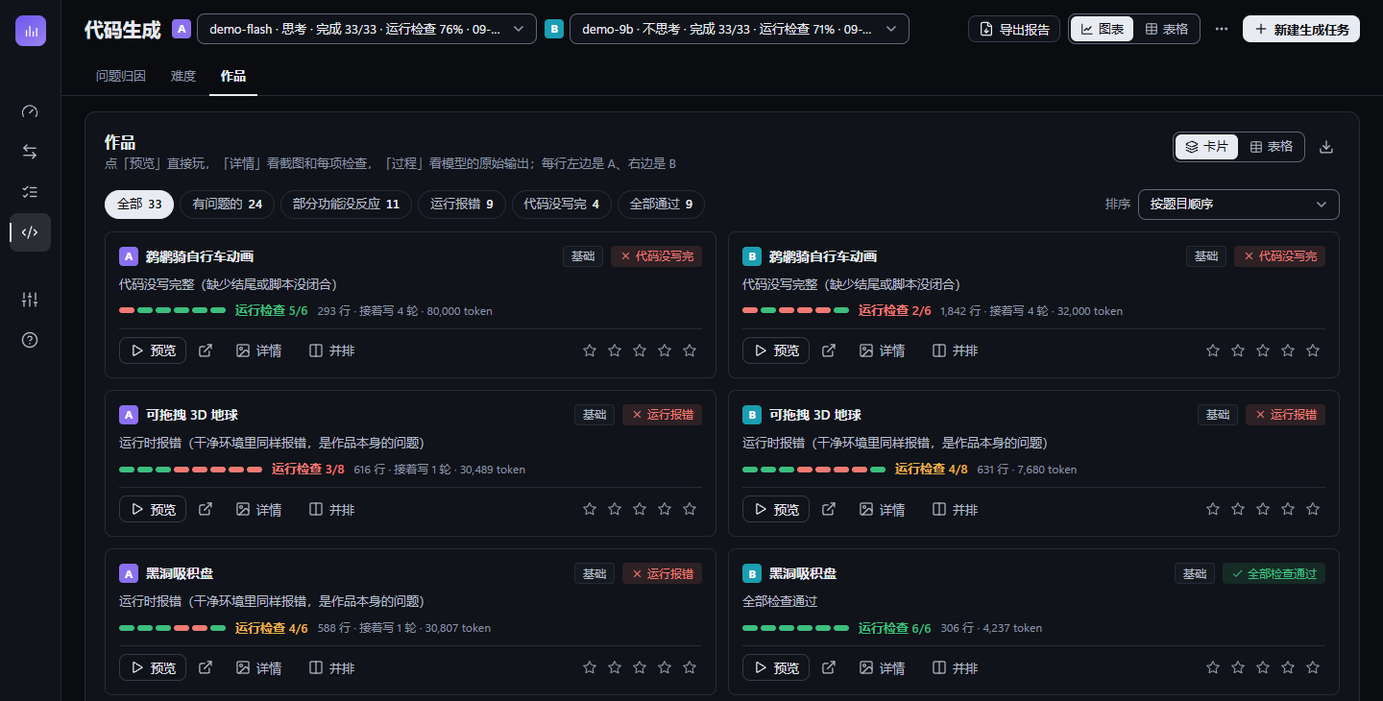
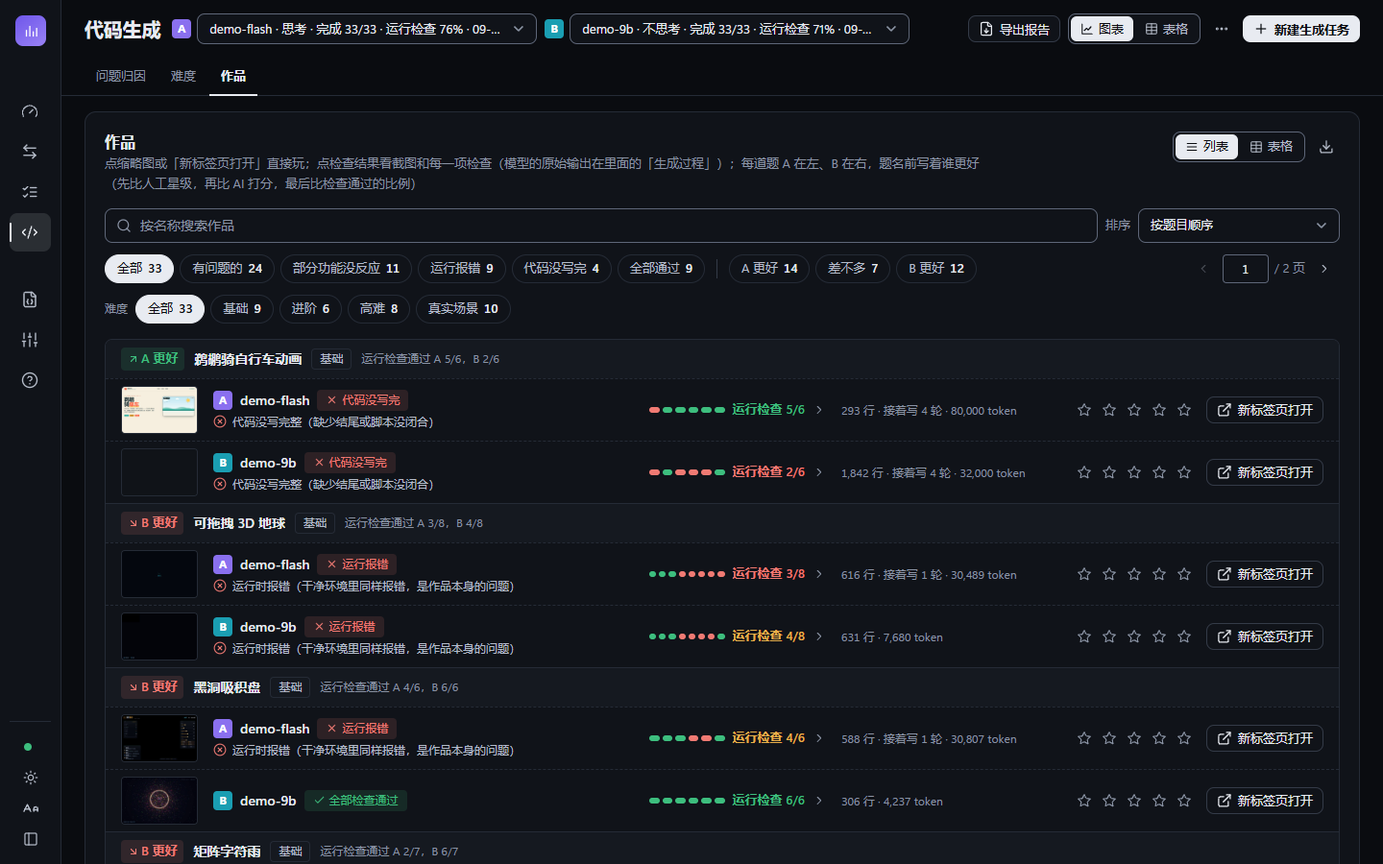
feat(gen): 作品列表改成一行一件的紧凑列表，只留「新标签页打开」，去掉页面内嵌预览
原来每件作品一张 421×428 的大卡片，一页 12 张要 2000 多像素高。现在一件作品一行（约 65 像素），20 件约 1,300 像素：

- 一行里依次是：小缩略图（点它 = 新标签页打开）、标题 + 难度 + 状态 + 这件作品自己的问题、检查结果（点开看每项检查、截图和生成过程）、
  行数 / 接着写几轮 / token、人工打星、「新标签页打开」按钮
- 按列表自己的宽度折行（容器查询）：宽屏一行；1100 像素以下两行；手机上缩略图变小、按钮只剩图标、操作独占一行
- A / B 对比：每道题一个块，行首标出谁更好，下面 A、B 各一行（去掉了「并排预览」）
- 不再在页面里内嵌显示作品：去掉「预览」按钮、并排预览和缩略图悬停预览，页面里没有 iframe 了；列表和表格里都只有「新标签页打开」
  （表格里的缩略图也改成新标签页链接，表格保留「详情」「过程」）。「生成过程」在详情弹窗的标签页里，没有检查详情的旧作品才在检查那一格放「生成过程」按钮
- 切换按钮「卡片 / 表格」改成「列表 / 表格」；每页件数 12 / 24 / 48 改成 20 / 50 / 100
- 删掉不再用的 workFrameSrc、GEN_SANDBOX 和 .frame / .split 样式；作品的沙箱策略只剩服务端返回作品时的 CSP sandbox 头（tests/test_server.py 守着不放行 allow-same-origin）
- 前端断言跟着改（作品行、A / B、骨架、分页）；README 的说明和代码生成截图（脱敏演示数据）更新；国际化检查基线 320 → 302

diff --git a/web/static/app.js b/web/static/app.js
@@ -104,20 +104,12 @@ function workUrl(path){
     {type:/\.html?$/i.test(path)?"text/html;charset=utf-8":"application/json"})));
   return OFF_BLOBS.get(path);
 }
-/* 预览 iframe 的内容来源: 离线报告用 srcdoc(配合 sandbox 属性是不同源的), 并在 doctype 后加上和服务端一样的资源限制 */
-function workFrameSrc(path){
-  if(!OFF)return `src="/${esc(path)}"`;
-  const f=(OFF.files||{})[path];
-  if(typeof f!=="string")return `srcdoc="${esc("<p style='font:14px sans-serif;padding:24px'>"+esc(t("离线报告里没有这个作品"))+"</p>")}"`;
-  const meta=`<meta http-equiv="Content-Security-Policy" content="${esc(OFF.worksCsp||"")}">`;
-  return `srcdoc="${esc(f.replace(/^(\s*<!doctype[^>]*>)?/i,m=>m+meta))}"`;
-}
 /* 新标签页打开: 像普通网页一样运行(可以加载外部字体和脚本), 仍然隔离, 碰不到本系统的数据和接口 */
 function workOpenUrl(path){return OFF?workUrl(path):"/"+path+"?open=1"}
 function workOpenLink(it,{text=false,label=false}={}){
   if(!it||!it.file||it.error)return "";
   const tip=t("新标签页打开：像普通网页一样运行（可以加载外部字体和脚本），仍然隔离，碰不到本系统的数据");
-  return `<a class="btn ${text?"btn-secondary btn-sm":"btn-ghost btn-icon btn-sm"} work-open" href="${esc(workOpenUrl(it.file))}" target="_blank" rel="noopener noreferrer" title="${esc(tip)}"${text?"":` aria-label="${esc(label?t("新标签页打开：{name}",{name:td(it.name)}):t("新标签页打开"))}"`}>${icon("external")}${text?esc(t("新标签页打开")):""}</a>`;
+  return `<a class="btn ${text?"btn-secondary btn-sm":"btn-ghost btn-icon btn-sm"} work-open" href="${esc(workOpenUrl(it.file))}" target="_blank" rel="noopener noreferrer" title="${esc(tip)}"${text?"":` aria-label="${esc(label?t("新标签页打开：{name}",{name:td(it.name)}):t("新标签页打开"))}"`}>${icon("external")}${text?`<span class="open-text">${esc(t("新标签页打开"))}</span>`:""}</a>`;
 }
 /* 图表卡里的标签页(条形 / 能力形状、折线 / 散点)记住上次选的 */
 const CTAB=Object.assign({subj:"bars",tok:"line"},lsGet("llm-bench-pro-ctab"));
@@ -3536,8 +3528,8 @@ let GEN_SORT="default";
 const genSorts=()=>[["default","按题目顺序"],["pass","检查通过项（少的在前）"],["lines","代码行数（多的在前）"],["tokens","输出 token（多的在前）"],["rounds",termText("{cont}的轮数（多的在前）")],["stars","人工星级（高的在前）"]];
 const GEN_LS="llm-bench-pro-gen-works";        /* 每页几件、上次看到第几页(同一个测试和筛选下刷新页面停在原处) */
 const GEN_PREF=lsGet(GEN_LS);
-const GW_SIZES=[12,24,48];
-let GEN_TIER="all",GEN_Q="",GEN_PAGE=0,GEN_SIZE=GW_SIZES.includes(GEN_PREF.size)?GEN_PREF.size:12;
+const GW_SIZES=[20,50,100];
+let GEN_TIER="all",GEN_Q="",GEN_PAGE=0,GEN_SIZE=GW_SIZES.includes(GEN_PREF.size)?GEN_PREF.size:20;
 const GW={a:null,b:null,rows:[],ctx:null,ctxB:null,mainId:"",pairId:"",sigTable:""};   /* 当前这一节要用的数据, 筛选 / 翻页时只重画这一节 */
 
 /* ---------- 纯逻辑 ---------- */
@@ -3696,57 +3688,43 @@ function genPhHTML(it,msg,ic,sub){
   return `<span class="work-ph" data-t="${genTierIdx(it)}">${icon(ic||GEN_CATS[cat]||GEN_CATS.page,"icon-lg")}<span>${esc(msg)}</span>${sub?`<span class="work-ph-sub">${esc(sub)}</span>`:""}</span>`;
 }
 function genThumbHTML(run,it,tag){
-  const ref=`data-run="${esc(run.run_id)}" data-item="${esc(it.id)}"`;
   if(!it.file||it.error){
-    const msg=it.error?"没有生成出来":"没有作品文件";
+    const msg=it.error?t("没有生成出来"):t("没有作品文件");
     return `<div class="work-thumb is-static" title="${esc(it.error?msg+"："+it.error:msg)}">${genPhHTML(it,msg,it.error?"x-circle":"ban")}</div>`;
   }
   const shot=genPickShot(it),src=shot?workUrl(shot.path):"";
   const inner=src?`<img class="work-shot" src="${esc(src)}" alt="" width="768" height="480" loading="lazy" decoding="async" data-shot="${esc(shot.path)}">`
-    :genPhHTML(it,shot?"报告里没有这张截图 · 点击预览":"没有截图 · 点击预览");
-  return `<button type="button" class="work-thumb${src?" skeleton":""}" data-gen="preview" ${ref} tabindex="-1" aria-label="预览：${esc(it.name)}${tag?"（"+tag+"）":""}" title="预览「${esc(it.name)}」">${inner}<span class="work-thumb-hint" aria-hidden="true"><span>${icon("play")}预览</span></span></button>`;
-}
-function genFlagHTML(info){
-  if(!info.badge)return "";
-  const ic={good:"check",bad:"x",warn:"alert",neutral:"ban"}[info.badge.tone]||"minus",tone=info.badge.tone==="neutral"?"plain":info.badge.tone;
-  return `<span class="work-flag"><span class="badge is-${tone}">${icon(ic)}${esc(info.badge.text)}</span></span>`;
+    :genPhHTML(it,shot?t("报告里没有这张截图"):t("没有截图"));
+  return `<a class="work-thumb${src?" skeleton":""}" href="${esc(workOpenUrl(it.file))}" target="_blank" rel="noopener noreferrer" tabindex="-1" aria-label="${esc(t("新标签页打开：{name}",{name:it.name}))}${tag?"（"+tag+"）":""}" title="${esc(t("新标签页打开：{name}",{name:it.name}))}">${inner}</a>`;
 }
 function genActionsHTML(run,it){
-  const can=!!it.file&&!it.error,e=it.eval,hasTrace=!!it.trace||!!it.rounds;
-  const ref=`data-run="${esc(run.run_id)}" data-item="${esc(it.id)}"`,nm=esc(it.name);
-  const prev=can?`<button type="button" class="btn btn-secondary btn-sm act-preview" data-gen="preview" ${ref} aria-label="预览：${nm}" title="预览：在隔离的沙箱里运行这件作品">${icon("play")}<span>预览</span></button>`:"";
-  const open=workOpenLink(it,{label:true});
-  const detail=e?`<button type="button" class="btn btn-ghost btn-sm" data-gen="detail" ${ref} aria-label="详情：${nm}" title="看截图和每一项检查">${icon("image")}<span>详情</span></button>`:"";
-  const trace=hasTrace?`<button type="button" class="btn btn-ghost btn-sm" data-gen="trace" ${ref} aria-label="生成过程：${nm}" title="看模型每一轮的原始输出">${icon("layers")}<span>过程</span></button>`:"";
-  const menu=(open?`<a class="menu-item" role="menuitem" href="${esc(workOpenUrl(it.file))}" target="_blank" rel="noopener noreferrer">${icon("external")}新标签页打开</a>`:"")+
-    (detail?`<button type="button" class="menu-item" role="menuitem" data-gen="detail" ${ref}>${icon("image")}详情（截图和每项检查）</button>`:"")+
-    (trace?`<button type="button" class="menu-item" role="menuitem" data-gen="trace" ${ref}>${icon("layers")}生成过程</button>`:"");
-  const more=menu?`<details class="dropdown act-more"><summary class="btn btn-ghost btn-icon btn-sm" aria-label="更多操作：${nm}" title="更多操作">${icon("more")}</summary><div class="dropdown-panel menu" role="menu">${menu}</div></details>`:"";
-  if(!prev&&!menu&&it.error)return `<div class="work-acts"></div>`;   /* 什么操作都没有(没生成出来又没有过程记录): 留空位, 不画分隔线 */
-  return `<div class="work-acts"><div class="work-acts-in">${prev}<span class="act-inline">${open}${detail}${trace}</span>${more}${it.error?"":starsHTML(run,it)}</div></div>`;
+  const can=!!it.file&&!it.error;
+  const open=can?workOpenLink(it,{text:true}):"";
+  if(!open&&it.error)return `<div class="work-acts"></div>`;   /* 没生成出来: 没有按钮也没有星星, 留空位 */
+  return `<div class="work-acts">${it.error?"":starsHTML(run,it)}${open}</div>`;
 }
-/* 作品卡: 六行固定位置 —— 缩略图 / 标题行 / 这件作品自己的问题(没有就是空的) / 检查结果 / 数据 / 操作(含打星); 一排卡片用 subgrid 逐行对齐 */
+/* 作品行: 一件作品一行 —— 缩略图 / 名称 + 状态 + 这件作品自己的问题 / 检查结果 / 数据 / 星级 + 新标签页打开; 检查结果可以点开看截图和每一项检查(生成过程也在里面) */
 function genCard(run,it,v,ctx,{tag="",inPair=false}={}){
-  const info=genCardInfo(it,v,ctx),e=it.eval,j=e&&e.judge,sc=genScore(it),segs=genCheckSegs(it);
+  const info=genCardInfo(it,v,ctx),e=it.eval,j=e&&e.judge,sc=genScore(it),segs=genCheckSegs(it),hasTrace=!!it.trace||!!it.rounds;
   const ref=`data-run="${esc(run.run_id)}" data-item="${esc(it.id)}"`;
   const judge=j&&j.score!=null?`<span class="badge" title="${termText("{judge}")}${j.stale?"（基于旧截图）":""}">${icon("sparkle")}<b class="score ${scoreCls(j.score)}">${fmt(j.score,0)}</b></span>`:(j&&j.error?`<span class="badge is-bad">打分失败</span>`:"");
+  const flag=info.badge?`<span class="badge is-${info.badge.tone==="neutral"?"plain":info.badge.tone}">${icon({good:"check",bad:"x",warn:"alert",neutral:"ban"}[info.badge.tone]||"minus")}${esc(info.badge.text)}</span>`:"";
   const head=inPair
-    ?`<header class="work-head"><span class="run-tag" style="background:${tag==="A"?C.a:C.b}">${tag}</span><span class="work-name" title="${esc(genLabel(run))}">${esc([run.model||"?",runFw(run)].filter(Boolean).join(" · "))}</span>${judge}</header>`
-    :`<header class="work-head"><h3 class="work-name" title="${esc(it.name)}">${esc(it.name)}</h3><span class="badge">${esc(tierOf(it)||"—")}</span>${judge}</header>`;
+    ?`<header class="work-head"><span class="run-tag" style="background:${tag==="A"?C.a:C.b}">${tag}</span><span class="work-name" title="${esc(genLabel(run))}">${esc([run.model||"?",runFw(run)].filter(Boolean).join(" · "))}</span>${flag}${judge}</header>`
+    :`<header class="work-head"><h3 class="work-name" title="${esc(it.name)}">${esc(it.name)}</h3><span class="badge">${esc(tierOf(it)||"—")}</span>${flag}${judge}</header>`;
   const note=info.note?`<p class="work-note is-${info.tone==="bad"?"bad":"warn"}" title="${esc(info.note)}">${icon(info.tone==="bad"?"x-circle":"alert","icon-sm")}<span>${esc(info.note)}</span></p>`:`<p class="work-note"></p>`;
   const bar=segs.length?`<span class="checkbar">${segs.map(s=>`<i class="${s.pass?"":"fail"}" title="${esc(s.tip)}"></i>`).join("")}</span>`:"",score=sc?`<span class="work-score score ${sc.cls}">${esc(sc.text)}</span>`:"";
-  const checks=!bar&&!score?`<div class="work-checks"></div>`
-    :e?`<button type="button" class="work-checks" data-gen="detail" ${ref} tabindex="-1" title="点一下看每一项检查和截图" aria-label="${esc(sc?sc.text:"检查结果")}，点开看每一项检查">${bar}${score}</button>`
+  const checks=!bar&&!score?(hasTrace&&!it.error?`<div class="work-checks"><button type="button" class="btn btn-ghost btn-sm" data-gen="trace" ${ref} title="看模型每一轮的原始输出">${icon("layers")}<span>生成过程</span></button></div>`:`<div class="work-checks"></div>`)
+    :e?`<button type="button" class="work-checks" data-gen="detail" ${ref} tabindex="-1" title="点一下看每一项检查、截图和生成过程" aria-label="${esc(sc?sc.text:"检查结果")}，点开看每一项检查">${bar}${score}${icon("chevron-right","icon-sm")}</button>`
     :`<div class="work-checks">${bar}${score}</div>`;
-  return `<article class="work" data-item="${esc(it.id)}"><div class="work-media">${genThumbHTML(run,it,tag)}${genFlagHTML(info)}</div>${head}${note}${checks}<p class="work-data">${esc(genDataLine(it))}</p>${genActionsHTML(run,it)}</article>`;
+  return `<article class="work" data-item="${esc(it.id)}"><div class="work-media">${genThumbHTML(run,it,tag)}</div><div class="work-main">${head}${note}</div>${checks}<p class="work-data">${esc(genDataLine(it))}</p>${genActionsHTML(run,it)}</article>`;
 }
-/* 一道题的 A / B 并排: 行首标出谁更好, 两半按行对齐(缩略图并排); 判断规则在悬停提示里 */
+/* 一道题的 A / B 并排: 行首标出谁更好, 下面 A、B 各一行; 判断规则在悬停提示里 */
 function genPairHead(a,b,it,ib,win){
   const cls=!ib?"flat":{a:"up",b:"down"}[win.side]||"flat",ic={up:"arrow-up",down:"arrow-down"}[cls]||"minus";
   const label=!ib?"B 没有这道题":genWinLabel(win);
   const tip=genWinRule()+(win?"\n\n这道题："+genWinLabel(win)+"（"+win.text+"）":"");
-  const side=ib&&!ib.error&&!it.error&&it.file&&ib.file?`<button type="button" class="btn btn-ghost btn-sm pair-side" data-gen="compare" data-run="${esc(a.run_id)}" data-item="${esc(it.id)}" aria-label="并排预览：${esc(it.name)}" title="A 和 B 两件作品并排运行">${icon("columns")}<span>并排预览</span></button>`:"";
-  return `<div class="pair-head"><span class="delta ${cls} pair-win" title="${esc(tip)}">${icon(ic)}${esc(label)}</span><h3 class="pair-name" title="${esc(it.name)}">${esc(it.name)}</h3><span class="badge">${esc(tierOf(it)||"—")}</span><span class="pair-why">${esc(win?win.text:"")}</span>${side}</div>`;
+  return `<div class="pair-head"><span class="delta ${cls} pair-win" title="${esc(tip)}">${icon(ic)}${esc(label)}</span><h3 class="pair-name" title="${esc(it.name)}">${esc(it.name)}</h3><span class="badge">${esc(tierOf(it)||"—")}</span><span class="pair-why">${esc(win?win.text:"")}</span></div>`;
 }
 function genPairHTML(a,b,row,ctx,ctxB){
   const{it,v,ib,vb,win}=row;
@@ -3755,10 +3733,10 @@ function genPairHTML(a,b,row,ctx,ctxB){
 /* 加载中: 与最终布局同形的骨架(概览 + 一屏卡片) */
 function genSkeleton(){
   const line=(w,h=12,mt=0)=>`<div class="skeleton" style="height:${h}px;width:${w}%;margin-top:${mt}px"></div>`;
-  const card=`<div class="work is-sk" aria-hidden="true"><div class="work-media"><div class="work-thumb skeleton"></div></div><div class="work-head">${line(55,14)}</div><p class="work-note"></p><div class="work-checks">${line(70,10)}</div><div class="work-data">${line(45,10)}</div><div class="work-acts">${line(100,28)}</div></div>`;
+  const card=`<div class="work is-sk" aria-hidden="true"><div class="work-media"><div class="work-thumb skeleton"></div></div><div class="work-main"><div class="work-head">${line(45,14)}</div><p class="work-note"></p></div><div class="work-checks">${line(70,10)}</div><div class="work-data">${line(60,10)}</div><div class="work-acts">${line(100,28)}</div></div>`;
   return `<div class="ov"><div>${line(18)}${line(88,12,14)}${line(76,12,14)}${line(82,12,14)}</div>
     <div class="ov-stats">${'<div class="stat"><div class="skeleton" style="height:10px;width:50%"></div><div class="skeleton" style="height:26px;width:66%;margin-top:12px"></div></div>'.repeat(4)}</div></div>
-    <div class="sec" aria-busy="true"><div class="skeleton" style="height:14px;width:12%"></div><div class="skeleton" style="height:36px;width:100%;margin-top:16px"></div><div class="work-grid" style="margin-top:16px">${card.repeat(6)}</div></div>`;
+    <div class="sec" aria-busy="true"><div class="skeleton" style="height:14px;width:12%"></div><div class="skeleton" style="height:36px;width:100%;margin-top:16px"></div><div class="work-grid" style="margin-top:16px">${card.repeat(8)}</div></div>`;
 }
 
 /* ---------- 这一节的渲染: 筛选标签 · 卡片(分页) · 翻页器 · 表格 ---------- */
@@ -3917,8 +3895,8 @@ function renderGen(){
     panel({id:"gen-tier",title:"各难度的表现",jump:"难度",desc:`${s.mode==="static"?"只看代码的命中率（没有实际运行，仅供参考）":"实际运行检查的通过率"}，每张卡里按分数从高到低排列${b?"；右侧数字是 A / B":""}`,
       chart:dataTable(tierT)+tierCards(a,b,s.mode),tables:[tierT,genTaskTable(a,b)],tcols:1})+
     `<section class="sec" id="gen-works" data-jump="作品" data-pv="${worksMode}">
-      <div class="sec-head"><div class="sec-head-text"><h2 class="sec-title">作品</h2><p class="sec-desc">点缩略图或「预览」直接玩，点检查结果或「详情」看截图和每一项检查，「过程」看模型的原始输出${b?"；每道题 A 在左、B 在右，题名前写着谁更好（先比人工星级，再比 AI 打分，最后比检查通过的比例）":""}${onlyB?`。B 里还有 ${onlyB} 道 A 没做的题，这里不显示`:""}</p></div>
-        <div class="sec-tools">${segHTML("data-pv-set",worksMode,[["chart","卡片","layers"],["table","表格","table"]])}
+      <div class="sec-head"><div class="sec-head-text"><h2 class="sec-title">作品</h2><p class="sec-desc">点缩略图或「新标签页打开」直接玩；点检查结果看截图和每一项检查（模型的原始输出在里面的「生成过程」）${b?"；每道题 A 在左、B 在右，题名前写着谁更好（先比人工星级，再比 AI 打分，最后比检查通过的比例）":""}${onlyB?`。B 里还有 ${onlyB} 道 A 没做的题，这里不显示`:""}</p></div>
+        <div class="sec-tools">${segHTML("data-pv-set",worksMode,[["chart","列表","rows"],["table","表格","table"]])}
           <button type="button" class="btn btn-ghost btn-icon btn-sm" data-pv-export title="导出作品表与检查矩阵（CSV）" aria-label="导出作品表">${icon("download")}</button></div></div>
       <div class="work-tools">
         <div class="qb-bar"><label class="qb-search">${icon("search")}<input class="input" id="genSearch" type="search" placeholder="按名称搜索作品" value="${esc(GEN_Q)}" aria-label="按名称搜索作品" autocomplete="off"></label>
@@ -3952,11 +3930,11 @@ function starsHTML(run,it){
 function genMiniHTML(run,it){
   const shot=genPickShot(it),src=shot&&it.file&&!it.error?workUrl(shot.path):"";
   if(!src)return `<span class="work-mini is-ph" aria-hidden="true">${icon("image","icon-sm")}</span>`;
-  return `<button type="button" class="work-mini" data-gen="preview" data-run="${esc(run.run_id)}" data-item="${esc(it.id)}" aria-label="预览：${esc(it.name)}"><img src="${esc(src)}" alt="" width="64" height="40" loading="lazy" decoding="async" data-shot="${esc(shot.path)}"></button>`;
+  return `<a class="work-mini" href="${esc(workOpenUrl(it.file))}" target="_blank" rel="noopener noreferrer" aria-label="${esc(t("新标签页打开：{name}",{name:it.name}))}" title="${esc(t("新标签页打开：{name}",{name:it.name}))}"><img src="${esc(src)}" alt="" width="64" height="40" loading="lazy" decoding="async" data-shot="${esc(shot.path)}"></a>`;
 }
 function genTableActions(run,it){
   const can=!!it.file&&!it.error,hasTrace=!!it.trace||!!it.rounds,ref=`data-run="${esc(run.run_id)}" data-item="${esc(it.id)}"`,nm=esc(it.name);
-  return `<span class="dt-actions">${can?`<button type="button" class="btn btn-secondary btn-sm" data-gen="preview" ${ref} aria-label="预览：${nm}">${icon("play")}预览</button>`:""}${workOpenLink(it,{label:true})}`+
+  return `<span class="dt-actions">${workOpenLink(it,{label:true})}`+
     `${it.eval?`<button type="button" class="btn btn-ghost btn-sm" data-gen="detail" ${ref} aria-label="详情：${nm}">${icon("image")}详情</button>`:""}`+
     `${hasTrace?`<button type="button" class="btn btn-ghost btn-sm" data-gen="trace" ${ref} aria-label="生成过程：${nm}">${icon("layers")}过程</button>`:""}</span>`;
 }
@@ -4106,10 +4084,8 @@ $("genResult").addEventListener("click",e=>{
   if(rate){rateStars(rate.dataset.run,rate.dataset.item,+rate.dataset.rate);return}
   const act=e.target.closest("[data-gen]");if(!act)return;
   const r=GEN_RUNS[act.dataset.run],it=r&&(r.items||[]).find(x=>x.id===act.dataset.item);if(!it)return;
-  if(act.dataset.gen==="preview")previewWork(it);
-  else if(act.dataset.gen==="detail")genDetail(r,it,"checks");
+  if(act.dataset.gen==="detail")genDetail(r,it,"checks");
   else if(act.dataset.gen==="trace")genDetail(r,it,"trace");
-  else if(act.dataset.gen==="compare")previewCompare(it);
 });
 let rateSeq=0;
 function rateStars(runId,itemId,n){
@@ -4125,25 +4101,6 @@ function rateStars(runId,itemId,n){
     if(!d.ok){it.stars=prev;renderGen();toast("评分保存失败："+d.error,"error")}
   });
   if(GW.b&&$("gwList"))genRenderWorks({focus:`[data-rate="${n}"][data-run="${CSS.escape(runId)}"][data-item="${CSS.escape(itemId)}"]`});
-}
-const GEN_SANDBOX="allow-scripts allow-pointer-lock allow-forms allow-modals"; /* 无 same-origin/top-navigation/popups: 作品代码碰不到本页和接口; localStorage 由服务端 /works 垫片提供(否则游戏脚本一启动就崩) */
-const SANDBOX_BADGE=`<span class="badge" title="作品在隔离的沙箱里运行，碰不到本页面和后端接口；本地存储用内存代替（刷新就清空）">${icon("ban")}隔离运行</span>`;
-function focusPreviewFrame(){
-  const f=document.querySelector("#modalBody iframe.frame");
-  if(f){try{f.focus();f.contentWindow&&f.contentWindow.focus()}catch(e){}}
-}
-function previewWork(it){
-  Modal.open(it.name,`<iframe class="frame" sandbox="${GEN_SANDBOX}" ${workFrameSrc(it.file)} title="${esc(it.name)}"></iframe>`,{badges:SANDBOX_BADGE+workOpenLink(it,{text:true}),flush:true});
-  focusPreviewFrame();  /* 键盘类游戏不用先点一下 */
-}
-function previewCompare(it){
-  const a=GEN_RUNS[$("genMainSel").value],b=GEN_RUNS[$("genCmpSel").value];
-  const ib=b&&(b.items||[]).find(x=>x.id===it.id);
-  const side=(r,x,tag)=>`<div><div class="split-head"><span class="run-tag ${tag.toLowerCase()}">${tag}</span>${esc(genLabel(r))}${workOpenLink(x)}</div>
-    ${x&&!x.error?`<iframe class="frame" style="flex:1" sandbox="${GEN_SANDBOX}" ${workFrameSrc(x.file)} title="${tag}"></iframe>`
-      :emptyState(x?"这题没生成出来":"这个任务没有这道题",x?x.error:"",{inline:true})}</div>`;
-  Modal.open(it.name+" · 并排对比",`<div class="split">${side(a,it,"A")}${side(b,ib,"B")}</div>`,{badges:SANDBOX_BADGE,flush:true});
-  focusPreviewFrame();
 }
 /* 检查详情 / AI 打分 / 生成过程 三个标签 */
 function genDetail(r,it,tab){

diff --git a/web/static/app.css b/web/static/app.css
@@ -481,10 +481,6 @@ details.advanced.is-step{margin-top:0;border-top:0;padding-top:0}
 .modal-backdrop.is-panel .modal{width:min(480px,100%);height:auto;max-height:min(680px,88vh)}
 .modal-backdrop.is-panel .modal-body{padding:14px 16px 16px}
 .modal-backdrop.is-wide .modal{width:min(1100px,100%);height:auto;max-height:90vh;margin:auto}
-.frame{display:block;width:100%;height:100%;border:0;background:#fff}
-.split{display:grid;grid-template-columns:1fr 1fr;gap:1px;height:100%;background:var(--border)}
-.split>div{display:flex;flex-direction:column;min-width:0;background:var(--surface-1)}
-.split-head{display:flex;align-items:center;gap:var(--sp-2);height:40px;padding:0 var(--sp-3);font-size:var(--fs-13);color:var(--text-2);border-bottom:1px solid var(--border);white-space:nowrap;overflow:hidden}
 .dialog-text{color:var(--text-2);line-height:1.75;white-space:pre-wrap;word-break:break-word}
 .dialog-actions{display:flex;justify-content:flex-end;gap:var(--sp-2);margin-top:var(--sp-5)}
 
@@ -683,8 +679,8 @@ details.advanced.is-step{margin-top:0;border-top:0;padding-top:0}
 .sig.yes{color:var(--text-1)}
 .sig.no{color:var(--text-3)}
 
-/* 代码生成: 作品卡。一张卡固定六行: 缩略图 / 标题行 / 这件作品自己的问题 / 检查结果 / 数据 / 操作;
-   一排卡片用 subgrid 把六行逐行对齐(整排都没有「自己的问题」时那一行高度为 0); 不支持 subgrid 的浏览器退回普通竖排 */
+/* 代码生成: 作品列表。一件作品一行: 缩略图 · 名称 + 状态 + 这件作品自己的问题 · 检查结果 · 数据 · 星级 + 新标签页打开。
+   按列表自己的宽度(容器查询)折行: 宽 = 一行; 中 = 两行(检查和数据放到名称下面); 窄 = 缩略图变小, 按钮只剩图标 */
 .sr-only{position:absolute;width:1px;height:1px;margin:-1px;padding:0;overflow:hidden;clip:rect(0,0,0,0);white-space:nowrap;border:0}
 .work-tools{display:flex;flex-direction:column;gap:var(--sp-3);margin-bottom:var(--sp-4)}
 .work-sort{display:flex;align-items:center;gap:8px;margin-left:auto;font-size:var(--fs-13);color:var(--text-3);white-space:nowrap}
@@ -693,91 +689,75 @@ details.advanced.is-step{margin-top:0;border-top:0;padding-top:0}
 .work-tier-row{display:flex;align-items:center;gap:var(--sp-2);min-width:0}
 .work-tier-label{flex:none;font-size:var(--fs-12);color:var(--text-3)}
 .work-tier-row .filter-chips{flex:1 1 auto;min-width:0}
-.work-grid{display:grid;grid-template-columns:repeat(auto-fill,minmax(min(100%,max(340px,calc((100% - 2 * var(--sp-3)) / 3))),1fr));column-gap:var(--sp-3);row-gap:0}
-.work-pairs{display:grid;grid-template-columns:repeat(auto-fill,minmax(min(100%,560px),1fr));column-gap:var(--sp-3);row-gap:0}
-.work-grid>:not(.work),.work-pairs>:not(.work-pair){grid-column:1/-1}
-.work{grid-row:span 6;display:grid;grid-template-rows:subgrid;min-width:0;padding:12px;margin-bottom:var(--sp-3);background:var(--surface-1);border:1px solid var(--border);border-radius:var(--r-md);
-  transition:border-color var(--dur-base) var(--ease),transform var(--dur-base) var(--ease)}
-.work:hover{border-color:var(--text-4)}
-@media (prefers-reduced-motion:no-preference){.work-grid>.work:hover{transform:translateY(-2px)}}
-.work:has(.dropdown[open]),.work-pair:has(.dropdown[open]){position:relative;z-index:10}
-.work.is-empty{padding:0;border:0;background:none}
-.work.is-empty>.empty{grid-row:1/-1;min-height:0;border-style:dashed}
-/* 缩略图: 固定 16:10(截图 768×480 正好), 懒加载; 加载中是骨架, 没有截图或打不开是占位, 悬停 / 键盘聚焦出现「预览」 */
-.work-media{position:relative;min-width:0}
+.work-grid,.work-pairs{container:gw/inline-size;display:block;overflow:hidden;background:var(--surface-1);border:1px solid var(--border);border-radius:var(--r-md)}
+.work-grid>:not(.work),.work-pairs>:not(.work-pair){margin:var(--sp-4)}
+.work{display:grid;grid-template-columns:80px minmax(0,1fr) 184px 224px auto;grid-template-areas:"media main checks data acts";align-items:center;column-gap:var(--sp-4);
+  min-width:0;padding:7px var(--sp-4);border-top:1px solid var(--border);background:var(--surface-1);transition:background var(--dur-fast) var(--ease)}
+.work-grid>.work:first-child,.work-grid>.ov+.work{border-top:0}
+.work:hover{background:var(--surface-2)}
+.work.is-empty{display:block;padding:0;border:0;background:none}
+.work.is-empty>.empty{min-height:0;border-style:dashed;margin:var(--sp-3) var(--sp-4)}
+.work-media{grid-area:media;position:relative;min-width:0}
+.work-main{grid-area:main;min-width:0}
+.work-checks{grid-area:checks}
+.work-data{grid-area:data}
+.work-acts{grid-area:acts}
+/* 缩略图: 16:10(截图 768×480 正好), 懒加载; 加载中是骨架, 没有截图或打不开是占位; 点它 = 新标签页打开 */
 .work-thumb{position:relative;display:block;width:100%;aspect-ratio:16/10;padding:0;border:1px solid var(--border);border-radius:var(--r-sm);overflow:hidden;background:var(--surface-2);
-  color:inherit;font:inherit;text-align:center;cursor:pointer}
+  color:inherit;font:inherit;text-align:center;text-decoration:none;cursor:pointer}
+a.work-thumb:hover{border-color:var(--text-3)}
 .work-thumb.is-static{cursor:default}
-.work-thumb.skeleton{border-radius:var(--r-sm)}
 .work-shot{position:absolute;inset:0;display:block;width:100%;height:100%;object-fit:cover;object-position:top center}
-.work-ph{--ph:var(--series-5);position:absolute;inset:0;display:flex;flex-direction:column;align-items:center;justify-content:center;gap:6px;padding:10px;
-  font-size:var(--fs-12);line-height:1.45;color:var(--text-2);background:color-mix(in srgb,var(--ph) 11%,var(--surface-2))}
+.work-ph{--ph:var(--series-5);position:absolute;inset:0;display:flex;align-items:center;justify-content:center;
+  background:color-mix(in srgb,var(--ph) 11%,var(--surface-2))}
 .work-ph[data-t="1"]{--ph:var(--series-6)}
 .work-ph[data-t="2"]{--ph:var(--series-4)}
 .work-ph[data-t="3"]{--ph:var(--series-3)}
-.work-ph .icon{width:26px;height:26px;color:color-mix(in srgb,var(--ph) 55%,var(--text-2))}
-.work-ph-sub{max-width:100%;color:var(--text-3);overflow-wrap:anywhere}
-.work-thumb-hint{position:absolute;inset:0;display:grid;place-items:center;background:rgba(8,10,14,.46);opacity:0;transition:opacity var(--dur-fast) var(--ease)}
-.work-thumb-hint>span{display:inline-flex;align-items:center;gap:6px;height:32px;padding:0 14px;border-radius:999px;background:rgba(8,10,14,.86);color:#fff;font-size:var(--fs-13);font-weight:600}
-.work-thumb:hover .work-thumb-hint,.work-thumb:focus-visible .work-thumb-hint{opacity:1}
-.work-thumb.is-static .work-thumb-hint{display:none}
-@media (hover:none){
-  .work-thumb-hint{opacity:1;background:none;place-items:end end;padding:8px}
-  .work-thumb-hint>span{height:28px;padding:0 10px;font-size:var(--fs-12)}
-}
-/* 状态标签叠在缩略图左上角(实底, 不管截图什么颜色都读得清) */
-.work-flag{position:absolute;left:8px;top:8px;max-width:calc(100% - 16px);pointer-events:none}
-.work-flag .badge{height:24px;border:1px solid var(--border-strong);background:var(--surface-1);color:var(--text-2);box-shadow:0 1px 3px rgba(0,0,0,.3)}
-.work-flag .badge.is-good{background:color-mix(in srgb,var(--good) 9%,var(--surface-1));color:var(--good);border-color:color-mix(in srgb,var(--good) 45%,transparent)}
-.work-flag .badge.is-warn{background:color-mix(in srgb,var(--warn) 9%,var(--surface-1));color:var(--warn);border-color:color-mix(in srgb,var(--warn) 45%,transparent)}
-.work-flag .badge.is-bad{background:color-mix(in srgb,var(--bad) 9%,var(--surface-1));color:var(--bad);border-color:color-mix(in srgb,var(--bad) 45%,transparent)}
-.work-head{display:flex;align-items:center;gap:8px;min-width:0;margin-top:10px}
-.work-name{flex:1 1 auto;min-width:0;font-size:var(--fs-14);font-weight:600;line-height:1.4;white-space:nowrap;overflow:hidden;text-overflow:ellipsis}
+.work-ph .icon{width:20px;height:20px;color:color-mix(in srgb,var(--ph) 55%,var(--text-2))}
+.work-ph>span,.work-ph-sub{display:none}
+.work-head{display:flex;align-items:center;gap:8px;min-width:0}
+.work-name{flex:0 1 auto;min-width:0;margin:0;font-size:var(--fs-14);font-weight:600;line-height:1.4;white-space:nowrap;overflow:hidden;text-overflow:ellipsis}
 .work-head .badge,.work-head .run-tag{flex:none}
-.work-note{display:flex;align-items:flex-start;gap:6px;min-width:0;margin:0;font-size:var(--fs-13);line-height:1.5;color:var(--text-2)}
-.work-note:not(:empty){margin-top:6px}
-.work-note .icon{flex:none;margin-top:3px}
+.work-note{display:flex;align-items:center;gap:6px;min-width:0;margin:2px 0 0;font-size:var(--fs-12);line-height:1.5;color:var(--text-2)}
+.work-note:empty{display:none}
+.work-note .icon{flex:none}
 .work-note.is-bad .icon{color:var(--bad)}
 .work-note.is-warn .icon{color:var(--warn)}
-.work-note>span{min-width:0;display:-webkit-box;-webkit-line-clamp:2;-webkit-box-orient:vertical;overflow:hidden;overflow-wrap:anywhere}
-.work-checks{display:flex;align-items:center;gap:10px;min-width:0;margin:8px 0 0;padding:0;border:0;background:none;font:inherit;text-align:left;color:inherit}
-.work-checks:empty{margin:0}
+.work-note>span{min-width:0;white-space:nowrap;overflow:hidden;text-overflow:ellipsis}
+.work-checks{display:flex;align-items:center;gap:8px;min-width:0;margin:0;padding:0;border:0;background:none;font:inherit;text-align:left;color:inherit}
+.work-checks:empty{display:none}
 button.work-checks{cursor:pointer;border-radius:var(--r-sm)}
 button.work-checks:hover .work-score{text-decoration:underline;text-underline-offset:3px}
-.work-score{flex:none;font-size:var(--fs-12)}
+button.work-checks>.icon{flex:none;color:var(--text-3)}
+.work-score{flex:none;font-size:var(--fs-12);white-space:nowrap}
 .checkbar{display:flex;align-items:center;gap:3px;flex:1 1 auto;min-width:0}
-.checkbar i{flex:1 1 0;min-width:5px;max-width:22px;height:6px;border-radius:3px;background:var(--good)}
+.checkbar i{flex:1 1 0;min-width:5px;max-width:18px;height:6px;border-radius:3px;background:var(--good)}
 .checkbar i.fail{background:var(--bad)}
-.work-data{min-width:0;margin:4px 0 0;font-size:var(--fs-12);line-height:1.5;color:var(--text-3);font-variant-numeric:tabular-nums;white-space:nowrap;overflow:hidden;text-overflow:ellipsis}
-.work-data:empty{margin:0}
-/* 操作行: 宽卡片 = 预览 · 新标签页 · 详情 · 过程 + 星星; 窄一点 = 预览 + 「更多」+ 星星; 再窄 = 预览只剩图标(按行本身的宽度判断, 不看屏幕) */
-.work-acts{min-width:0;margin-top:10px;padding-top:8px;border-top:1px solid var(--border);container-type:inline-size}
-.work-acts:empty{margin:0;padding:0;border:0}
-.work-acts-in{display:flex;align-items:center;gap:4px;min-width:0}
-.work-acts-in .stars{margin-left:auto;flex:0 1 auto;min-width:0}
-.act-inline{display:contents}
-.act-more{display:none;flex:none}
-.act-more .dropdown-panel{min-width:210px}
-a.menu-item{text-decoration:none}
-@container (max-width:379px){.act-inline{display:none}.act-more{display:block}}
-@container (max-width:239px){.act-preview{width:var(--h-sm);padding:0}.act-preview span{display:none}}
-/* A / B 对比: 一道题一个块, 行首写谁更好, 两半的缩略图并排、各行对齐; 相邻的块也逐行对齐 */
-.work-pair{grid-row:span 7;display:grid;grid-template-rows:subgrid;grid-template-columns:repeat(2,minmax(0,1fr));min-width:0;padding:12px;margin-bottom:var(--sp-3);
-  background:var(--surface-1);border:1px solid var(--border);border-radius:var(--r-md);transition:border-color var(--dur-base) var(--ease)}
-.work-pair:hover{border-color:var(--text-4)}
-.work-pair>.work{grid-row:span 6;margin:0;padding:0 12px;background:none;border:0;border-radius:0;transition:none;transform:none}
-.work-pair>.pair-head+.work{padding-left:0}
-.work-pair>.work:last-child{padding-right:0;padding-left:12px;border-left:1px solid var(--border)}
-.pair-head{grid-column:1/-1;display:flex;align-items:center;flex-wrap:wrap;gap:6px 10px;min-width:0;margin-bottom:12px;padding-bottom:10px;border-bottom:1px solid var(--border)}
-.pair-win{flex:none;height:24px;font-size:var(--fs-13)}
-.pair-name{flex:0 1 auto;min-width:0;font-size:var(--fs-14);font-weight:600;line-height:1.4;white-space:nowrap;overflow:hidden;text-overflow:ellipsis}
-.pair-why{flex:1 1 180px;min-width:0;font-size:var(--fs-12);color:var(--text-3)}
-.pair-side{margin-left:auto}
-@supports not (grid-template-rows:subgrid){
-  .work,.work-pair>.work{display:flex;flex-direction:column;grid-row:auto}
-  .work-pair{grid-row:auto;grid-template-rows:none}
-  .work-acts{margin-top:auto}
+.work-data{min-width:0;margin:0;font-size:var(--fs-12);line-height:1.5;color:var(--text-3);font-variant-numeric:tabular-nums;white-space:nowrap;overflow:hidden;text-overflow:ellipsis}
+.work-acts{display:flex;align-items:center;justify-content:flex-end;gap:10px;min-width:0}
+.work-acts:empty{display:none}
+.work-acts .stars{flex:none}
+.work-acts .work-open{flex:none}
+a.work-open{text-decoration:none}
+@container gw (max-width:1099px){
+  .work{grid-template-columns:72px minmax(0,1fr) minmax(0,1fr) auto;grid-template-areas:"media main main acts" "media checks data acts";row-gap:4px}
 }
+@container gw (max-width:639px){
+  .work{grid-template-columns:56px minmax(0,1fr);grid-template-areas:"media main" "checks checks" "data data" "acts acts";row-gap:8px;padding:10px var(--sp-3)}
+  .work-media{align-self:start}
+  .work-acts{justify-content:space-between}
+  .work-open{width:var(--h-sm);padding:0}
+  .work-open .open-text{display:none}
+  .work-ph .icon{width:16px;height:16px}
+}
+/* A / B 对比: 一道题一个块, 行首写谁更好, 下面 A、B 各一行 */
+.work-pair{border-top:1px solid var(--border);min-width:0}
+.work-pairs>.work-pair:first-child{border-top:0}
+.work-pair>.work{border-top:1px dashed var(--border)}
+.pair-head{display:flex;align-items:center;flex-wrap:wrap;gap:6px 10px;min-width:0;padding:8px var(--sp-4);background:var(--surface-2)}
+.pair-win{flex:none;height:24px;font-size:var(--fs-13)}
+.pair-name{flex:0 1 auto;min-width:0;margin:0;font-size:var(--fs-14);font-weight:600;line-height:1.4;white-space:nowrap;overflow:hidden;text-overflow:ellipsis}
+.pair-why{flex:1 1 180px;min-width:0;font-size:var(--fs-12);color:var(--text-3)}
 /* 作品表里的缩略图小图 */
 .work-mini{display:block;width:64px;height:40px;padding:0;border:1px solid var(--border);border-radius:var(--r-sm);overflow:hidden;background:var(--surface-2);cursor:pointer}
 .work-mini img{display:block;width:100%;height:100%;object-fit:cover}

diff --git a/web/static/i18n.en.gen.js b/web/static/i18n.en.gen.js
@@ -6,4 +6,9 @@
 
 I18N.add("en", {
   /* "中文原文": "English", */
+  /* ---- 作品列表 (一件作品一行) ---- */
+  "没有生成出来": "Not generated",
+  "没有作品文件": "No work file",
+  "报告里没有这张截图": "This screenshot isn't in the report",
+  "没有截图": "No screenshot",
 });
